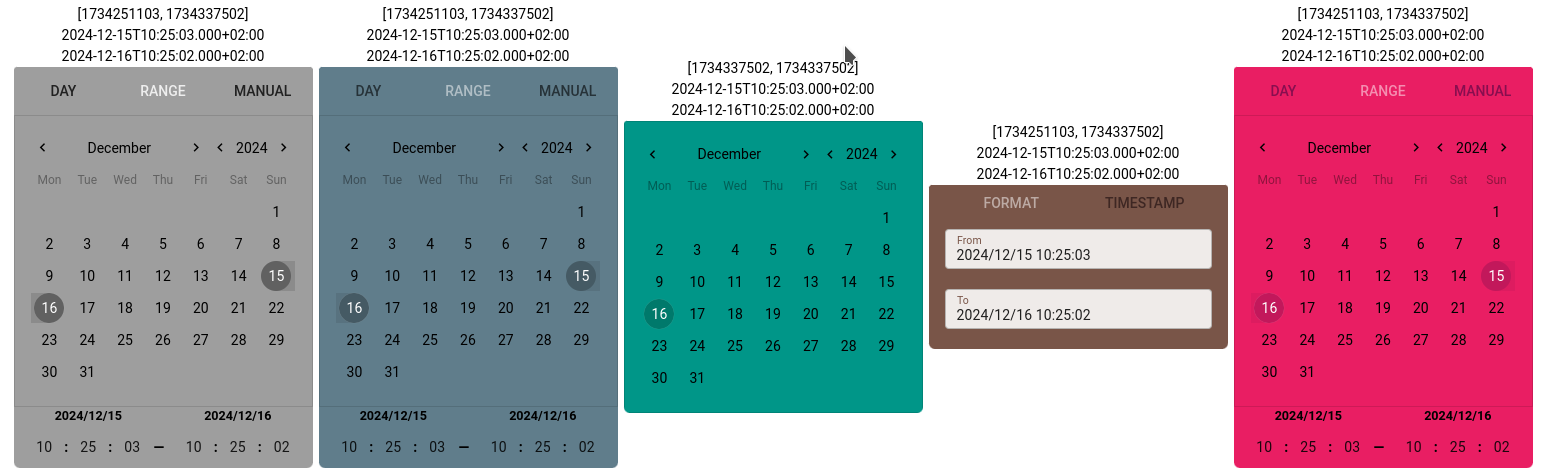
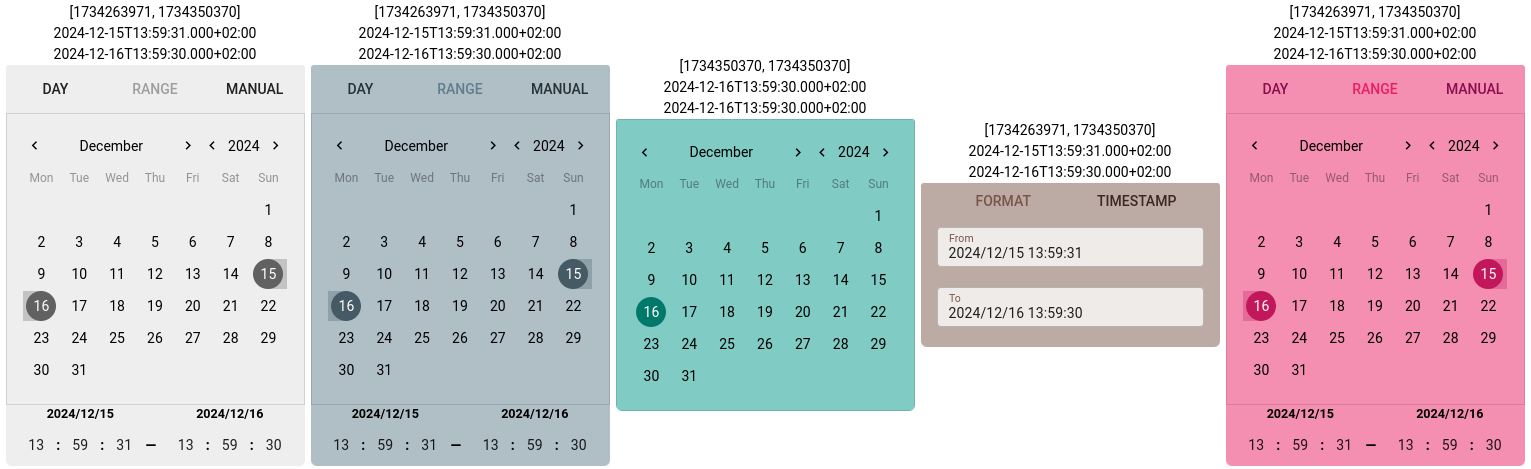
v.5.0.3 [fix] component's colors are made lighter

diff --git a/src/components/DateRangePicker.vue b/src/components/DateRangePicker.vue
@@ -1,10 +1,10 @@
 <template>
-  <div :class="`bg-${currentTheme.color}-6`" class="outer_contour">
+  <div :class="`bg-${currentTheme.color}-3`" class="outer_contour">
     <div class="text-center q-my-sm" v-if="currentTheme.modeSwitch">
       <q-btn-toggle flat dense spread
         v-model="dateRangeMode"
         :options="dateRangeModeOptions"
-        :toggle-text-color="`${currentTheme.color}-3`"
+        :toggle-text-color="`${currentTheme.color}-6`"
         :text-color="`${currentTheme.color}-10`"
         @update:model-value="dateRangeModeChanged"
       />
@@ -14,7 +14,7 @@
         v-model="selectedDates"
         :first-day-of-week="`${currentTheme.firstDayOfWeek}`"
         :color="`${currentTheme.color}-8`"
-        :class="`bg-${currentTheme.color}-6`"
+        :class="`bg-${currentTheme.color}-3`"
         class="calendar"
       />
       <div class="row relative-position">
@@ -72,7 +72,7 @@
         v-model="selectedDates"
         :first-day-of-week="`${currentTheme.firstDayOfWeek}`"
         :color="`${currentTheme.color}-8`"
-        :class="`bg-${currentTheme.color}-6`"
+        :class="`bg-${currentTheme.color}-3`"
         class="calendar"
       />
     </div>
@@ -82,7 +82,7 @@
         class="q-mb-sm"
         :options="manualOptions"
         :color="currentTheme.color"
-        :toggle-text-color="`${currentTheme.color}-3`"
+        :toggle-text-color="`${currentTheme.color}-6`"
         :text-color="`${currentTheme.color}-10`"
       />
       <template v-if="manualFormat === MANUAL_FORMAT">

diff --git a/src/components/DateTimePicker.vue b/src/components/DateTimePicker.vue
@@ -4,29 +4,29 @@
 			v-model="selectedDate"
 			:first-day-of-week="`${currentTheme.firstDayOfWeek}`"
 			:color="`${currentTheme.color}-8`"
-			:class="`bg-${currentTheme.color}-6`"
+			:class="`bg-${currentTheme.color}-3`"
 			class="calendar"
 			/>
-			<div class="row" :class="`bg-${currentTheme.color}-6`">
+			<div class="row" :class="`bg-${currentTheme.color}-3`">
         <time-component
           v-model="hours"
           :max="23"
           :scroll="`${currentTheme.timeScrolls}` ? true : false"
-          :color="`${currentTheme.color}-6`"
+          :color="`${currentTheme.color}`"
           class="time_component"
         />
 				<span class="separator">:</span>
         <time-component
           v-model="minutes"
           :scroll="`${currentTheme.timeScrolls}` ? true : false"
-          :color="`${currentTheme.color}-6`"
+          :color="`${currentTheme.color}`"
           class="time_component"
         />
 				<span class="separator">:</span>
         <time-component
           v-model="seconds"
           :scroll="`${currentTheme.timeScrolls}` ? true : false"
-          :color="`${currentTheme.color}-6`"
+          :color="`${currentTheme.color}`"
           class="time_component"
         />
 			</div>

diff --git a/src/components/TimeComponent.vue b/src/components/TimeComponent.vue
@@ -4,7 +4,7 @@
     ref="input"
     mask="##"
     input-style="text-align: center"
-    :bg-color="`${color}`"
+    :bg-color="`${color}-3`"
     :rules="[ validationRule ]"
     @blur="onBlur"
   />

diff --git a/CHANGELOG.md b/CHANGELOG.md
@@ -1,6 +1,9 @@
 # Changelog
 All notable changes to this project will be documented in this file.
 
+### [5.0.3] - 2024-12-16
+[fix] component's colors are made lighter
+
 ### [5.0.2] - 2024-12-16
 [fix] added max-width for the DateRangePicker component
 
